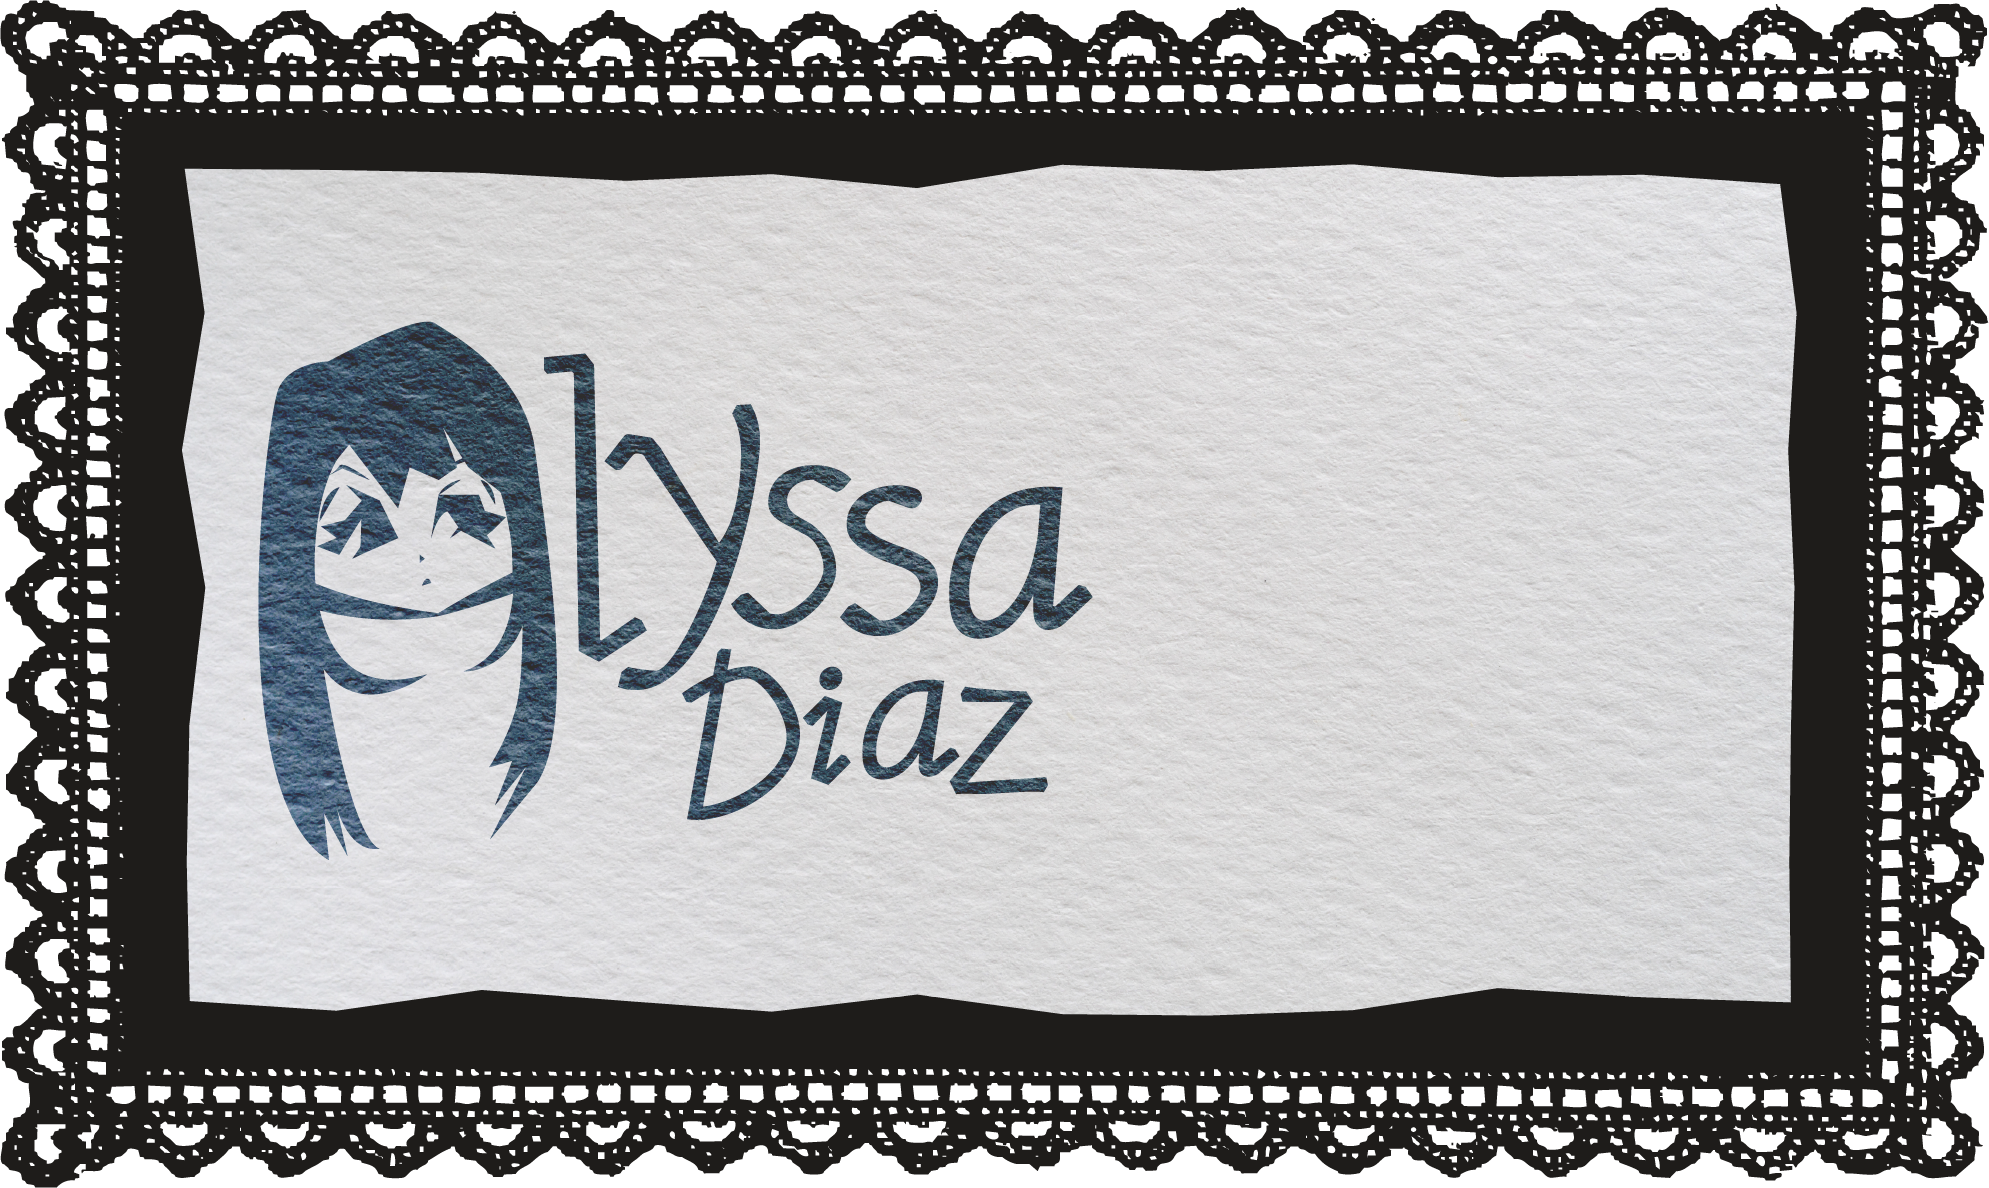
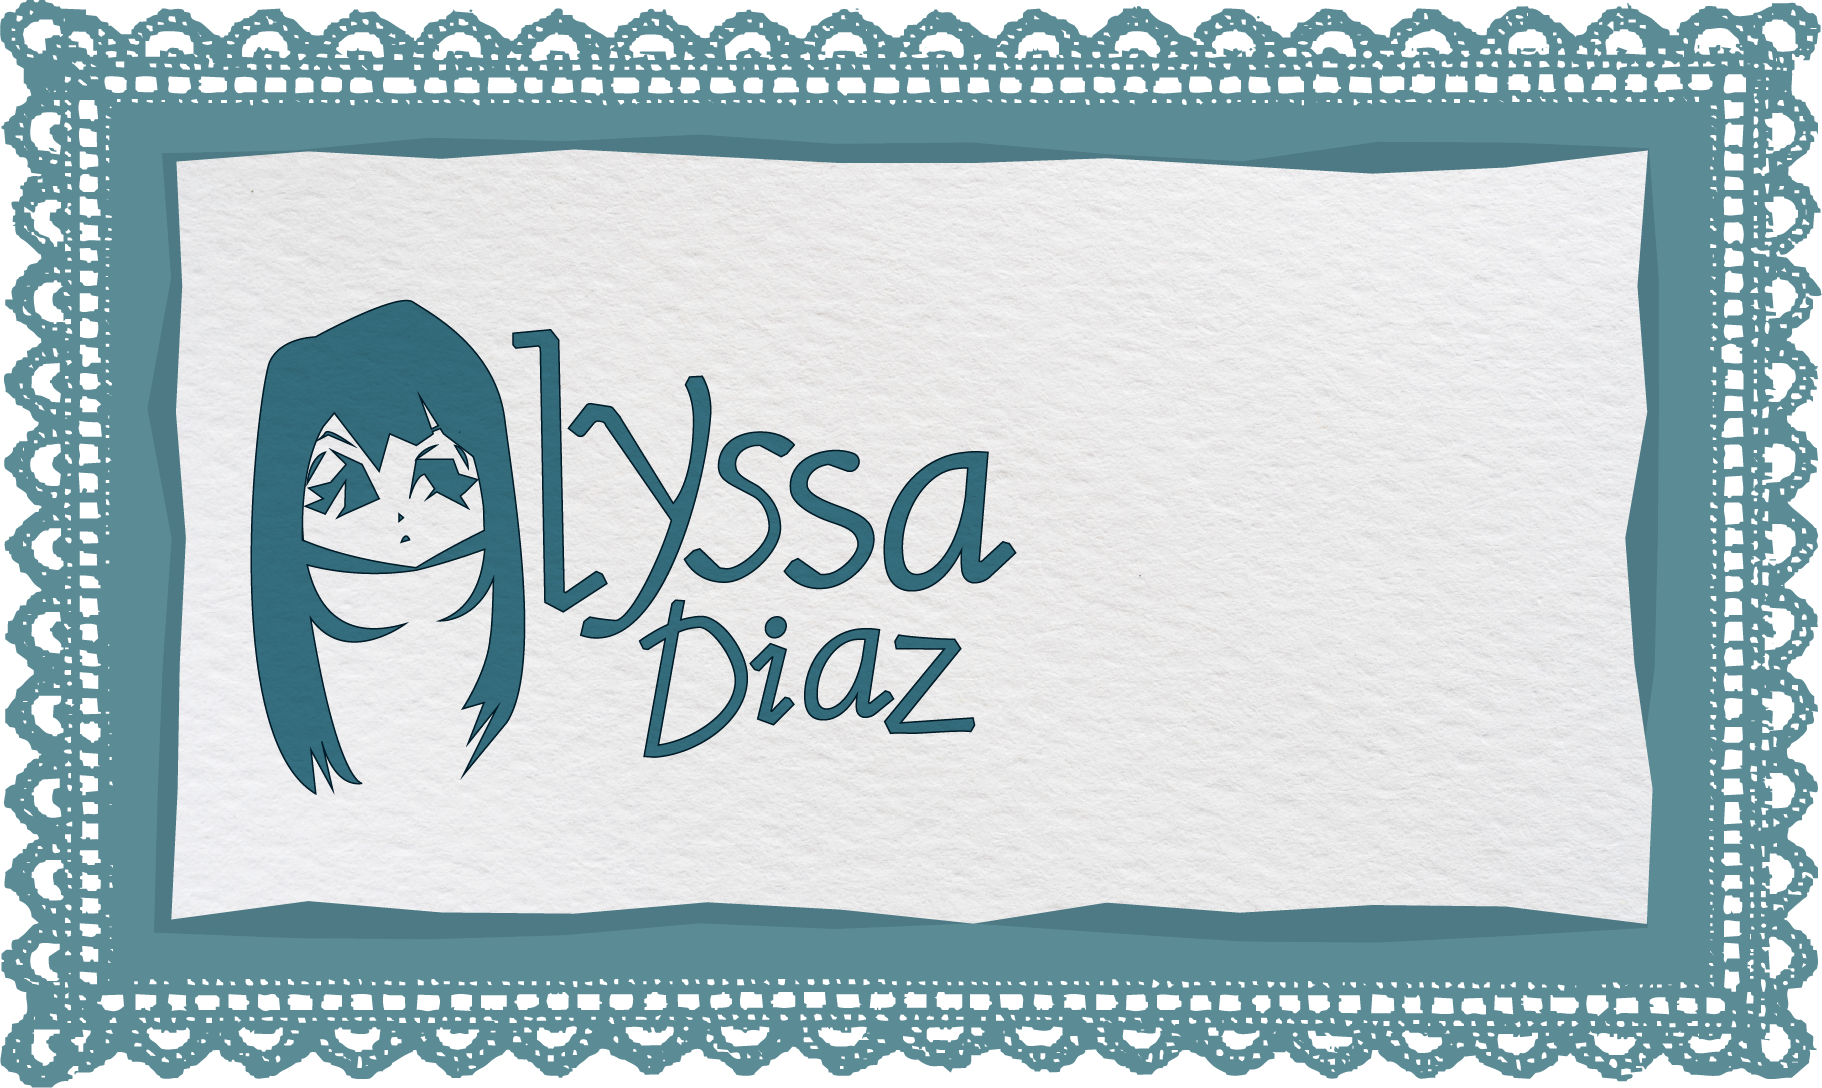
trial2
so plain. changed colours, added one porject image. trying to make the text scale n stuff

diff --git a/style.css b/style.css
@@ -2,49 +2,65 @@ body {
   margin: 0;
   font-family: Arial, sans-serif;
   background-color: #f8f6f2;
+  overflow-x: hidden;
+}
+/* text */
+a {
+  color: #001e2c; /* link colour */
+  text-decoration: none; /* removes underline */
 }
 
-/* MENU CONTAINER */
-/* OUTER WRAPPER CONTROLS VISIBILITY */
-.menu {
+/* GLOBAL */
+* {
+  box-sizing: border-box;
+}
+
+html {
+  scroll-behavior: smooth;
+}
+
+/* =========================
+   MENU
+========================= */
+
+.menu-panel {
   position: fixed;
-  top: 0;
+  top: -180px;
   left: 0;
   width: 100%;
-  overflow: hidden;
-  height: 70px; /* ONLY visible scallop area */
-  transition: height 0.4s ease;
+  transition: top 0.4s ease;
   z-index: 1000;
 }
 
-/* OPEN STATE (reveals full menu) */
-.menu.open {
-  height: 180px; /* full dropdown height */
+.menu.open .menu-panel {
+  top: 0;
 }
 
-/* IMAGE */
+.menu-text {
+  background: #001e2c;
+  color: white;
+  text-align: center;
+  padding: 40px 0 80px;
+}
+
+.menu-handle {
+  margin-top: -5px;
+}
+
 .menu-handle img {
   width: 100%;
-  height: auto;
   display: block;
 }
 
-/* TEXT INSIDE */
-.menu-text {
-  position: absolute;
-  top: 30px;
-  width: 100%;
-  text-align: center;
-  color: white;
-}
+/* =========================
+   INTRO
+========================= */
 
-/* intro section */
 .intro {
   width: 100%;
-  max-width: 800px;
-  margin: 40px auto;
+  max-width: 900px;
+  margin: 150px auto;
   position: relative;
-  z-index: 1;
 }
 
 .intro-box {
@@ -55,56 +71,81 @@ body {
 
 .intro-text {
   position: absolute;
-  right: 10%;
-  top: 50%;
+  top: 53%;
+  right: 12%;
   transform: translateY(-50%);
+
   width: 30%;
-  font-size: 14px;
+  font-family: Iansui;
+  font-weight: 600;
+  color: #001e2c;
+
+  font-size: clamp(13px, 1.5vw, 20px);
+  padding: 1em;
 }
 
-/* PROJECTS TITLE */
+/* =========================
+   PROJECT TITLE
+========================= */
+
 .projects-title {
+  font-family: Iansui;
   text-align: center;
   margin-top: 40px;
   font-size: 24px;
 }
 
-/* PROJECT GRID */
+/* =========================
+   GRID
+========================= */
+
 .projects-grid {
   display: grid;
-  grid-template-columns: repeat(2, 1fr);
+  grid-template-columns: 1fr;
+  justify-items: center;
   gap: 30px;
-  width: 80%;
-  margin: 40px auto;
 }
 
-/* PROJECT CARD */
+/* =========================
+   PROJECT CARD
+========================= */
+
 .project-card {
-  text-decoration: none;
-  color: black;
+  width: 90%;
+  max-width: 1200px;
+  margin: 0 auto;
+  display: flex;
+  flex-direction: column;
+  align-items: center;
 }
 
+/* IMAGE */
 .project-card img {
   width: 100%;
+  max-width: 1200px;
+  height: auto;
   display: block;
 }
 
+/* TEXT */
 .project-info {
-  margin-top: 10px;
+  width: 100%;
+  text-align: left;
 }
 
 .project-info h3 {
   margin: 0;
-  font-size: 18px;
+  font-size: clamp(20px, 2vw, 40px);
+  color: #001e2c;
 }
 
 .project-info p {
   margin: 5px 0 0;
   font-size: 14px;
-  color: gray;
+  color: #001e2c;
 }
 
-/* HOVER EFFECT */
+/* HOVER */
 .project-card:hover {
   transform: scale(1.02);
   transition: 0.2s;

diff --git a/index.html b/index.html
@@ -3,52 +3,57 @@
   <head>
     <meta charset="UTF-8" />
     <title>Your Portfolio</title>
+
     <link rel="stylesheet" href="style.css" />
+
+    <link rel="preconnect" href="https://fonts.googleapis.com" />
+    <link rel="preconnect" href="https://fonts.gstatic.com" crossorigin />
+    <link
+      href="https://fonts.googleapis.com/css2?family=Iansui&display=swap"
+      rel="stylesheet"
+    />
   </head>
-  <script src="script.js"></script>
+
   <body>
-    <!-- menudropdown-->
-<div class="menu" id="menu">
+    <!-- MENU -->
+    <div class="menu" id="menu">
+      <div class="menu-panel">
+        <div class="menu-text">
+          <p>Email: your@email.com</p>
+          <p>LinkedIn: your-linkedin</p>
+        </div>
 
-  <!-- FULL DROPDOWN (moves together) -->
-  <div class="menu-panel">
-
-    <div class="menu-text">
-      <p>Email: your@email.com</p>
-      <p>LinkedIn: your-linkedin</p>
+        <div class="menu-handle" onclick="toggleMenu()">
+          <img src="images/homepage/menudrop.png" alt="Menu" />
+        </div>
+      </div>
     </div>
 
-    <!-- SCALLOP AT BOTTOM -->
-    <div class="menu-handle" onclick="toggleMenu()">
-      <img src="images/homepage/menudrop.png" alt="Menu">
-    </div>
-
-  </div>
-
-</div>
-</div>
-
-    <!-- introbox -->
+    <!-- INTRO -->
     <div class="intro">
       <img
         src="images/homepage/introbox.png"
         alt="Intro Box"
         class="intro-box"
       />
+
       <div class="intro-text">
-        <p>Your short intro text goes here. Keep it brief.</p>
+        <p>
+          is a digital designer focused on crafting immersive storytelling
+          environments.
+        </p>
       </div>
     </div>
 
-    <!-- PROJECTS SECTION -->
+    <!-- PROJECTS -->
     <h2 class="projects-title">Projects</h2>
 
     <div class="projects-grid">
       <a href="project1.html" class="project-card">
-        <img src="images/project1.png" alt="Project 1" />
+        <img src="images/homepage/elsewhere_thumbnail.png" alt="Project 1" />
         <div class="project-info">
-          <h3>Project Title 1</h3>
-          <p>Type of Project</p>
+          <h3>Elsewhere</h3>
+          <p>Finding belonging and peace in solitude.</p>
         </div>
       </a>
 
@@ -77,10 +82,12 @@
       </a>
     </div>
 
+    <!-- SCRIPT (MUST BE INSIDE BODY) -->
+    <script src="script.js"></script>
+
     <script>
-      function toggleContact() {
-        const menu = document.getElementById("contact-menu");
-        menu.classList.toggle("open");
+      function toggleMenu() {
+        document.getElementById("menu").classList.toggle("open");
       }
     </script>
   </body>
